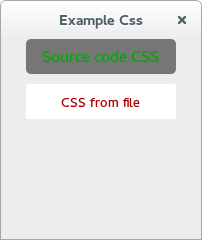
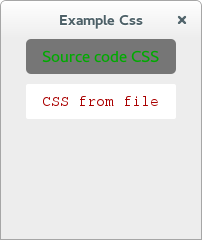
Changed font family

Changed region(s): [[0.2079, 0.3792, 0.802, 0.4667]]

diff --git a/assets/egCss.css b/assets/egCss.css
@@ -1,6 +1,7 @@
 * {
     color: #a00;
-    font-size: 10px;
+    font-size: 19px;
+    font: FreeMono;
     background-color: rgb(255, 255, 255);
     border-radius: 2px;
 }
